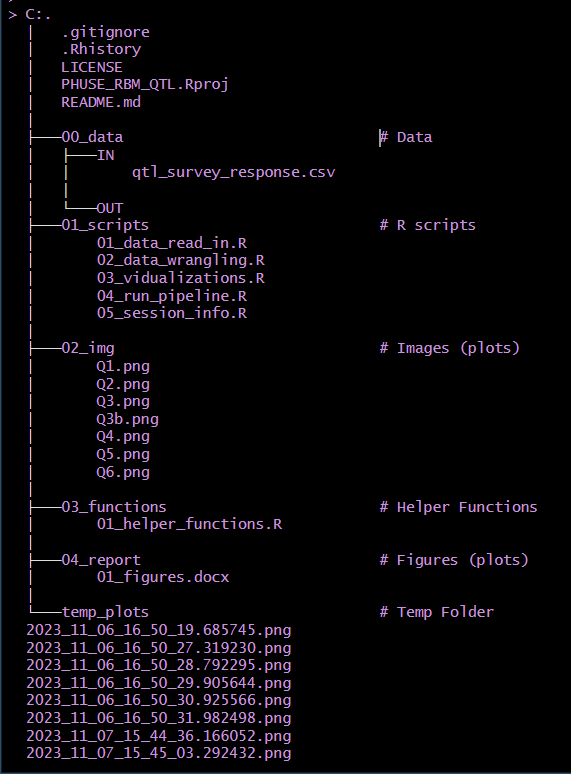
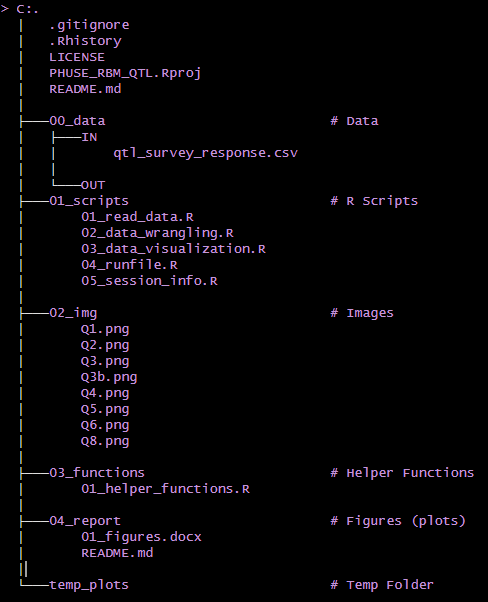
rename files, fix typos, add Q10

diff --git a/04_report/README.md b/04_report/README.md
@@ -1,18 +1,18 @@
 # Figure Tracker
 
-| Question Number                | Status | Type     |
-|--------------------------------|--------|----------|
-| Q1                             | done   | bar plot |
-| Q2                             | done   | bar plot |
-| Q3                             | done   | bar plot |
-| Q3b (other category breakdown) | done   | table    |
-| Q4                             | done   | bar plot |
-| Q5                             | done   | bar plot |
-| Q5b (comments breakdown)       | done   | table    |
-| Q6                             | done   | bar plot |
-| Q7                             | done   | table    |
-| Q8                             | done   | bar plot |
-| Q9                             | done   | table    |
-|                                |        |          |
-|                                |        |          |
-|                                |        |          |
+| Question Number                | Status     | Type     |
+|--------------------------------|------------|----------|
+| Q1                             | done       | bar plot |
+| Q2                             | done       | bar plot |
+| Q3                             | done       | bar plot |
+| Q3b (other category breakdown) | done       | table    |
+| Q4                             | done       | bar plot |
+| Q5                             | done       | bar plot |
+| Q5b (comments breakdown)       | done       | table    |
+| Q6                             | done       | bar plot |
+| Q7                             | done       | table    |
+| Q8                             | done       | bar plot |
+| Q9                             | done       | table    |
+| Q10                            | in-process | bar plot |
+|                                |            |          |
+|                                |            |          |
